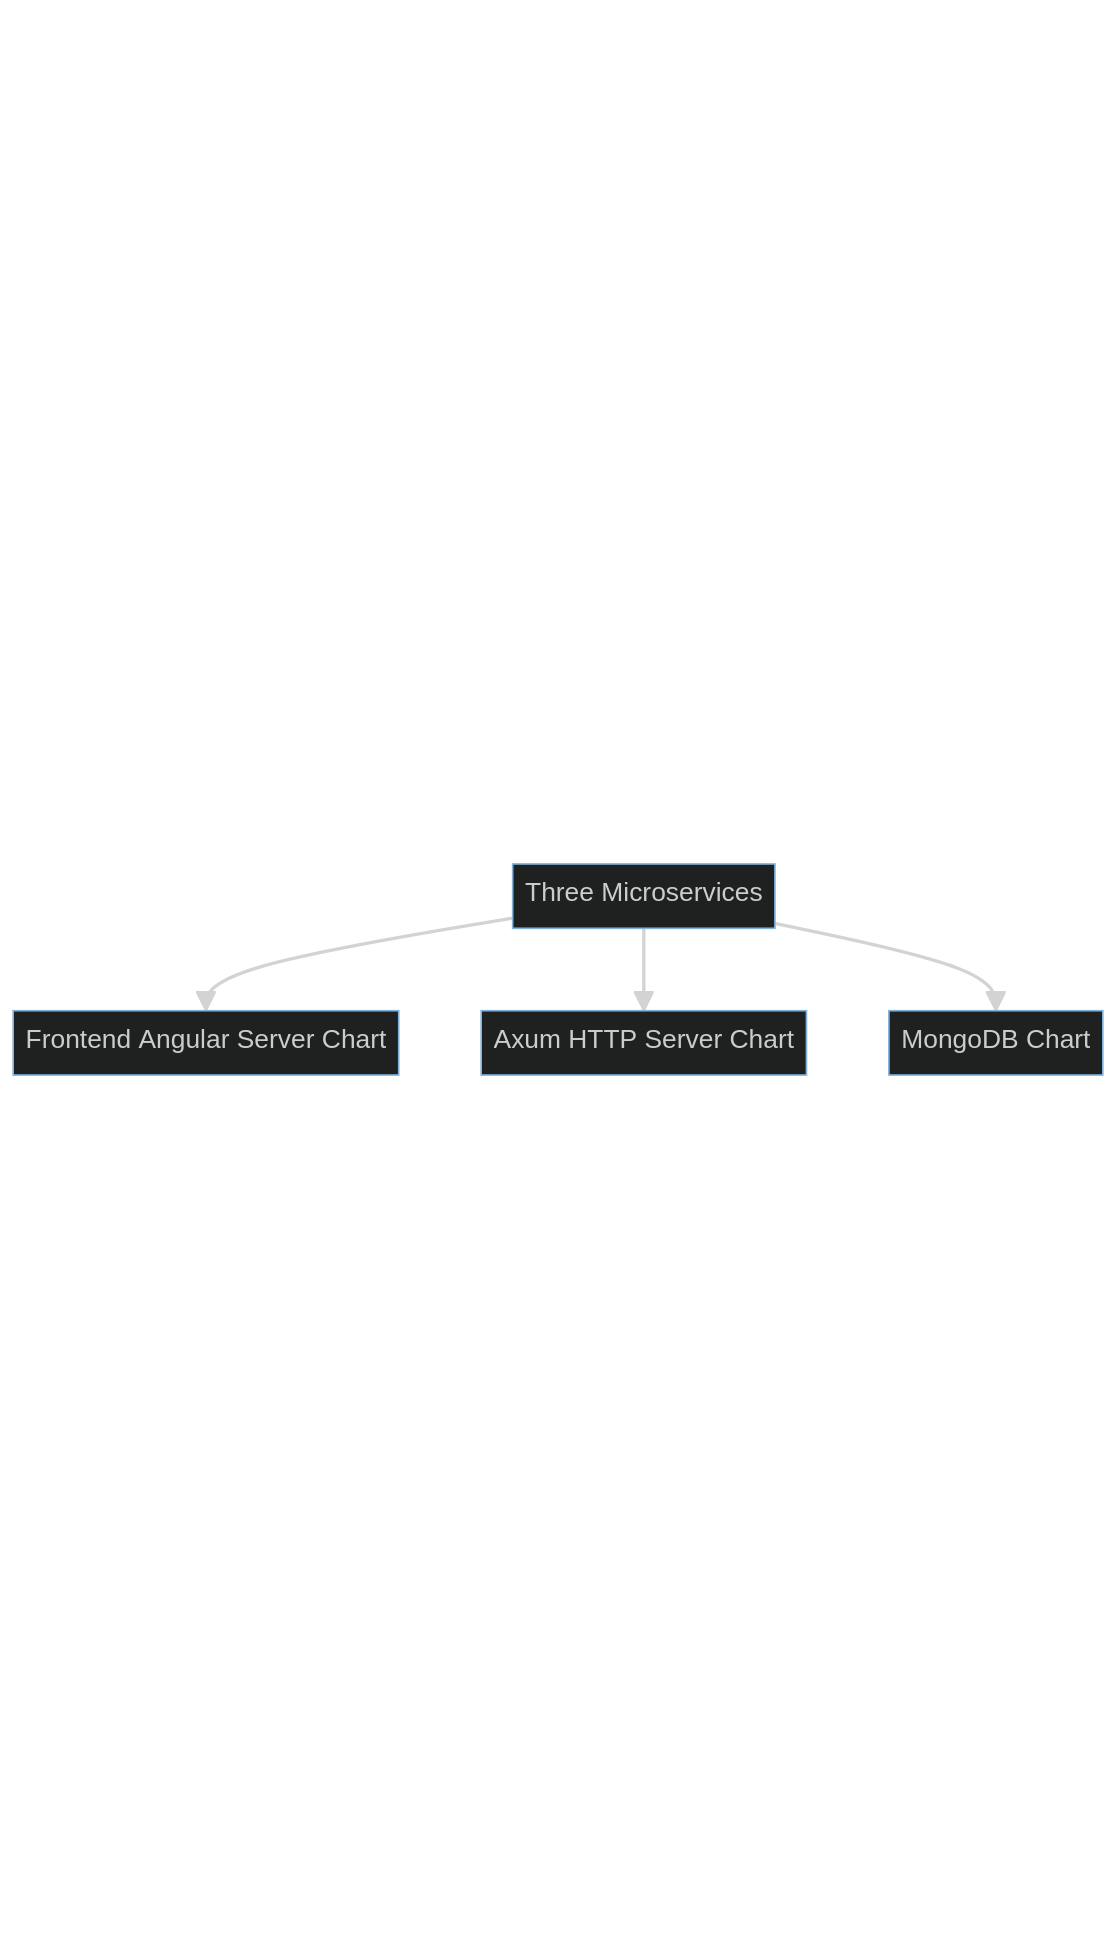
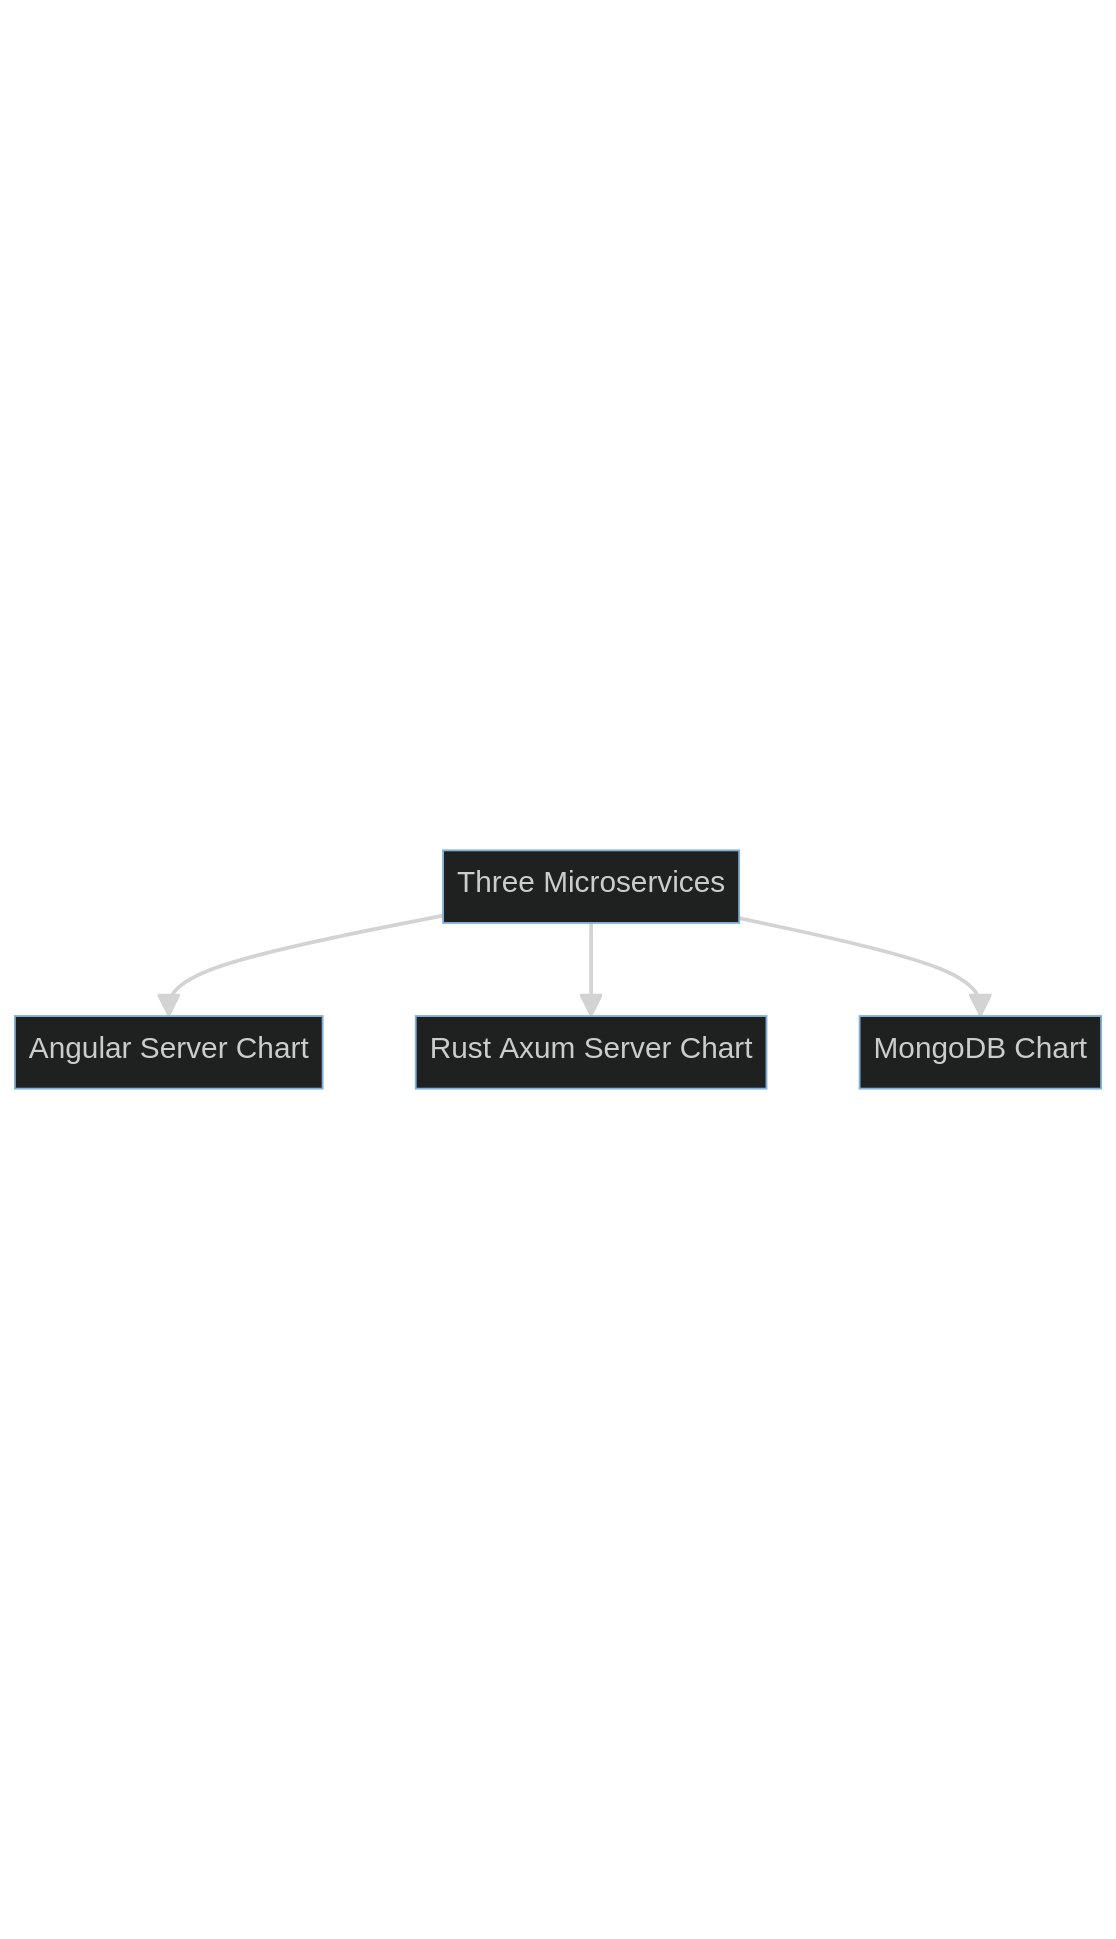
update three microservices img

Changed region(s): [[0.0, 0.4332, 0.7312, 0.5879], [0.7616, 0.4642, 1.0, 0.5879]]

diff --git a/report/images/diagrams/three_microservices.md b/report/images/diagrams/three_microservices.md
@@ -1,5 +1,5 @@
 flowchart TD
     A[Three Microservices]
-    A-->B[Frontend Angular Server Chart]
-    A-->C[Axum HTTP Server Chart]
+    A-->B[Angular Server Chart]
+    A-->C[Rust Axum Server Chart]
     A-->D[MongoDB Chart]
